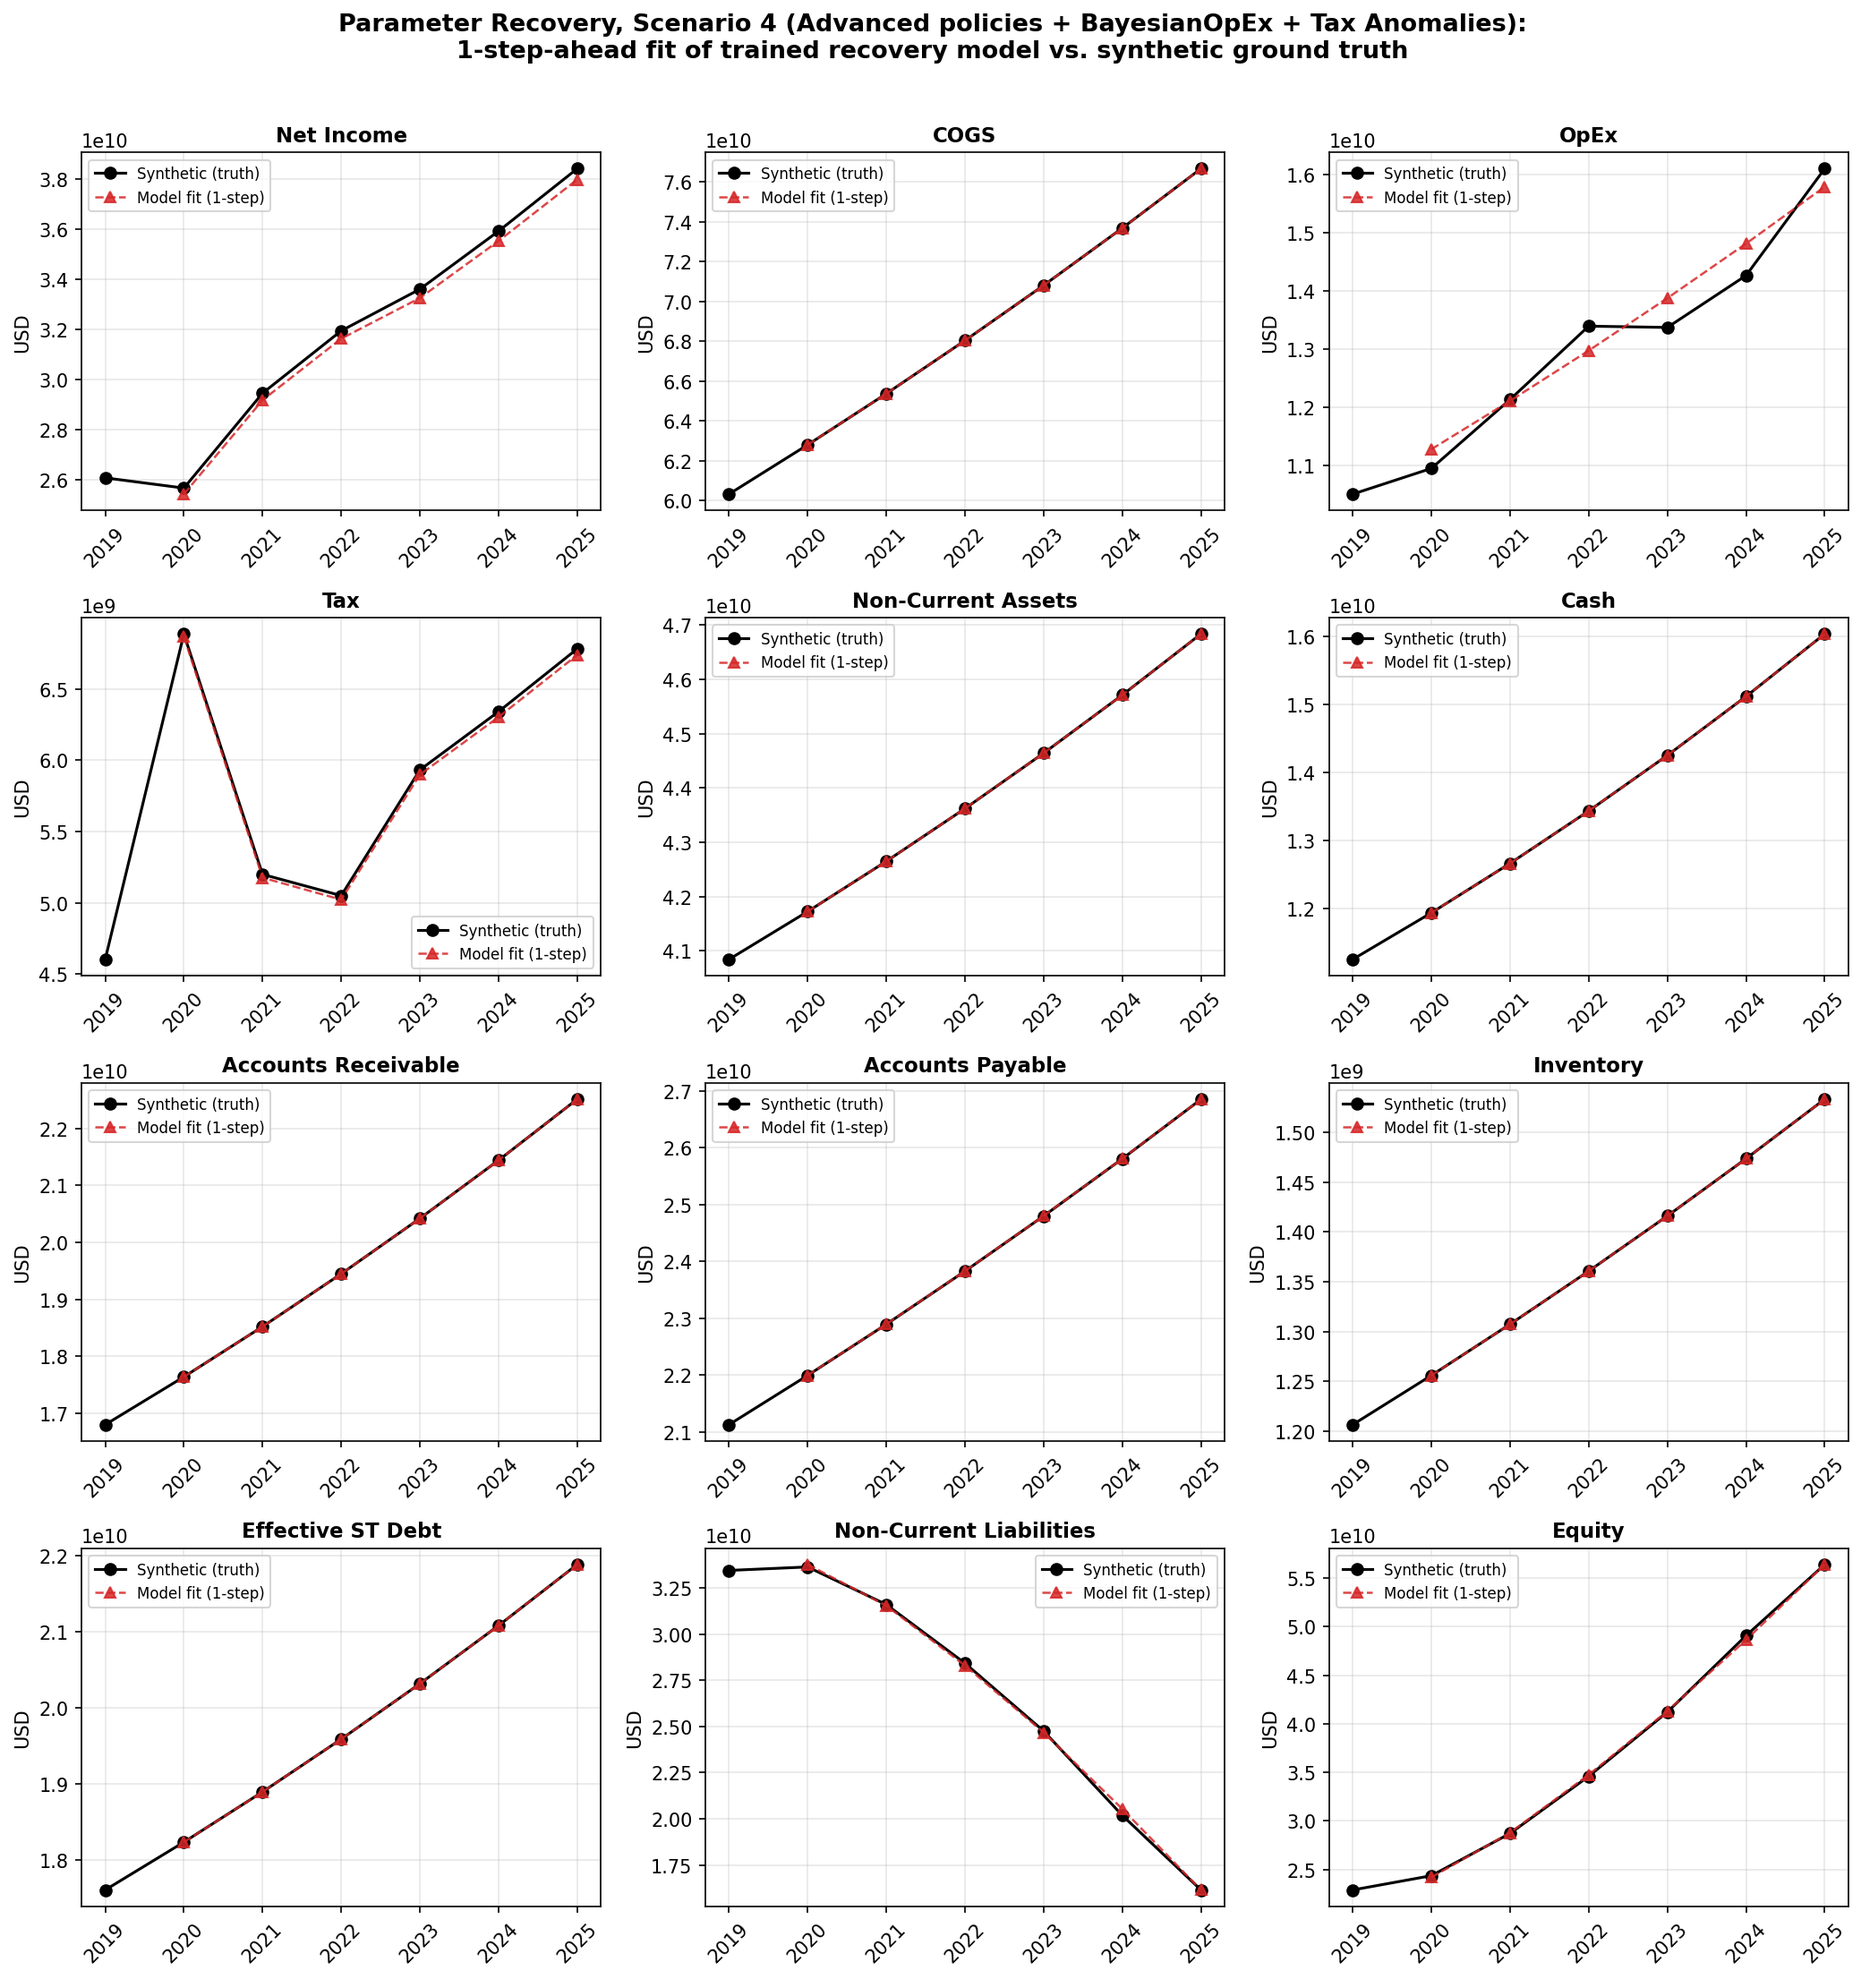
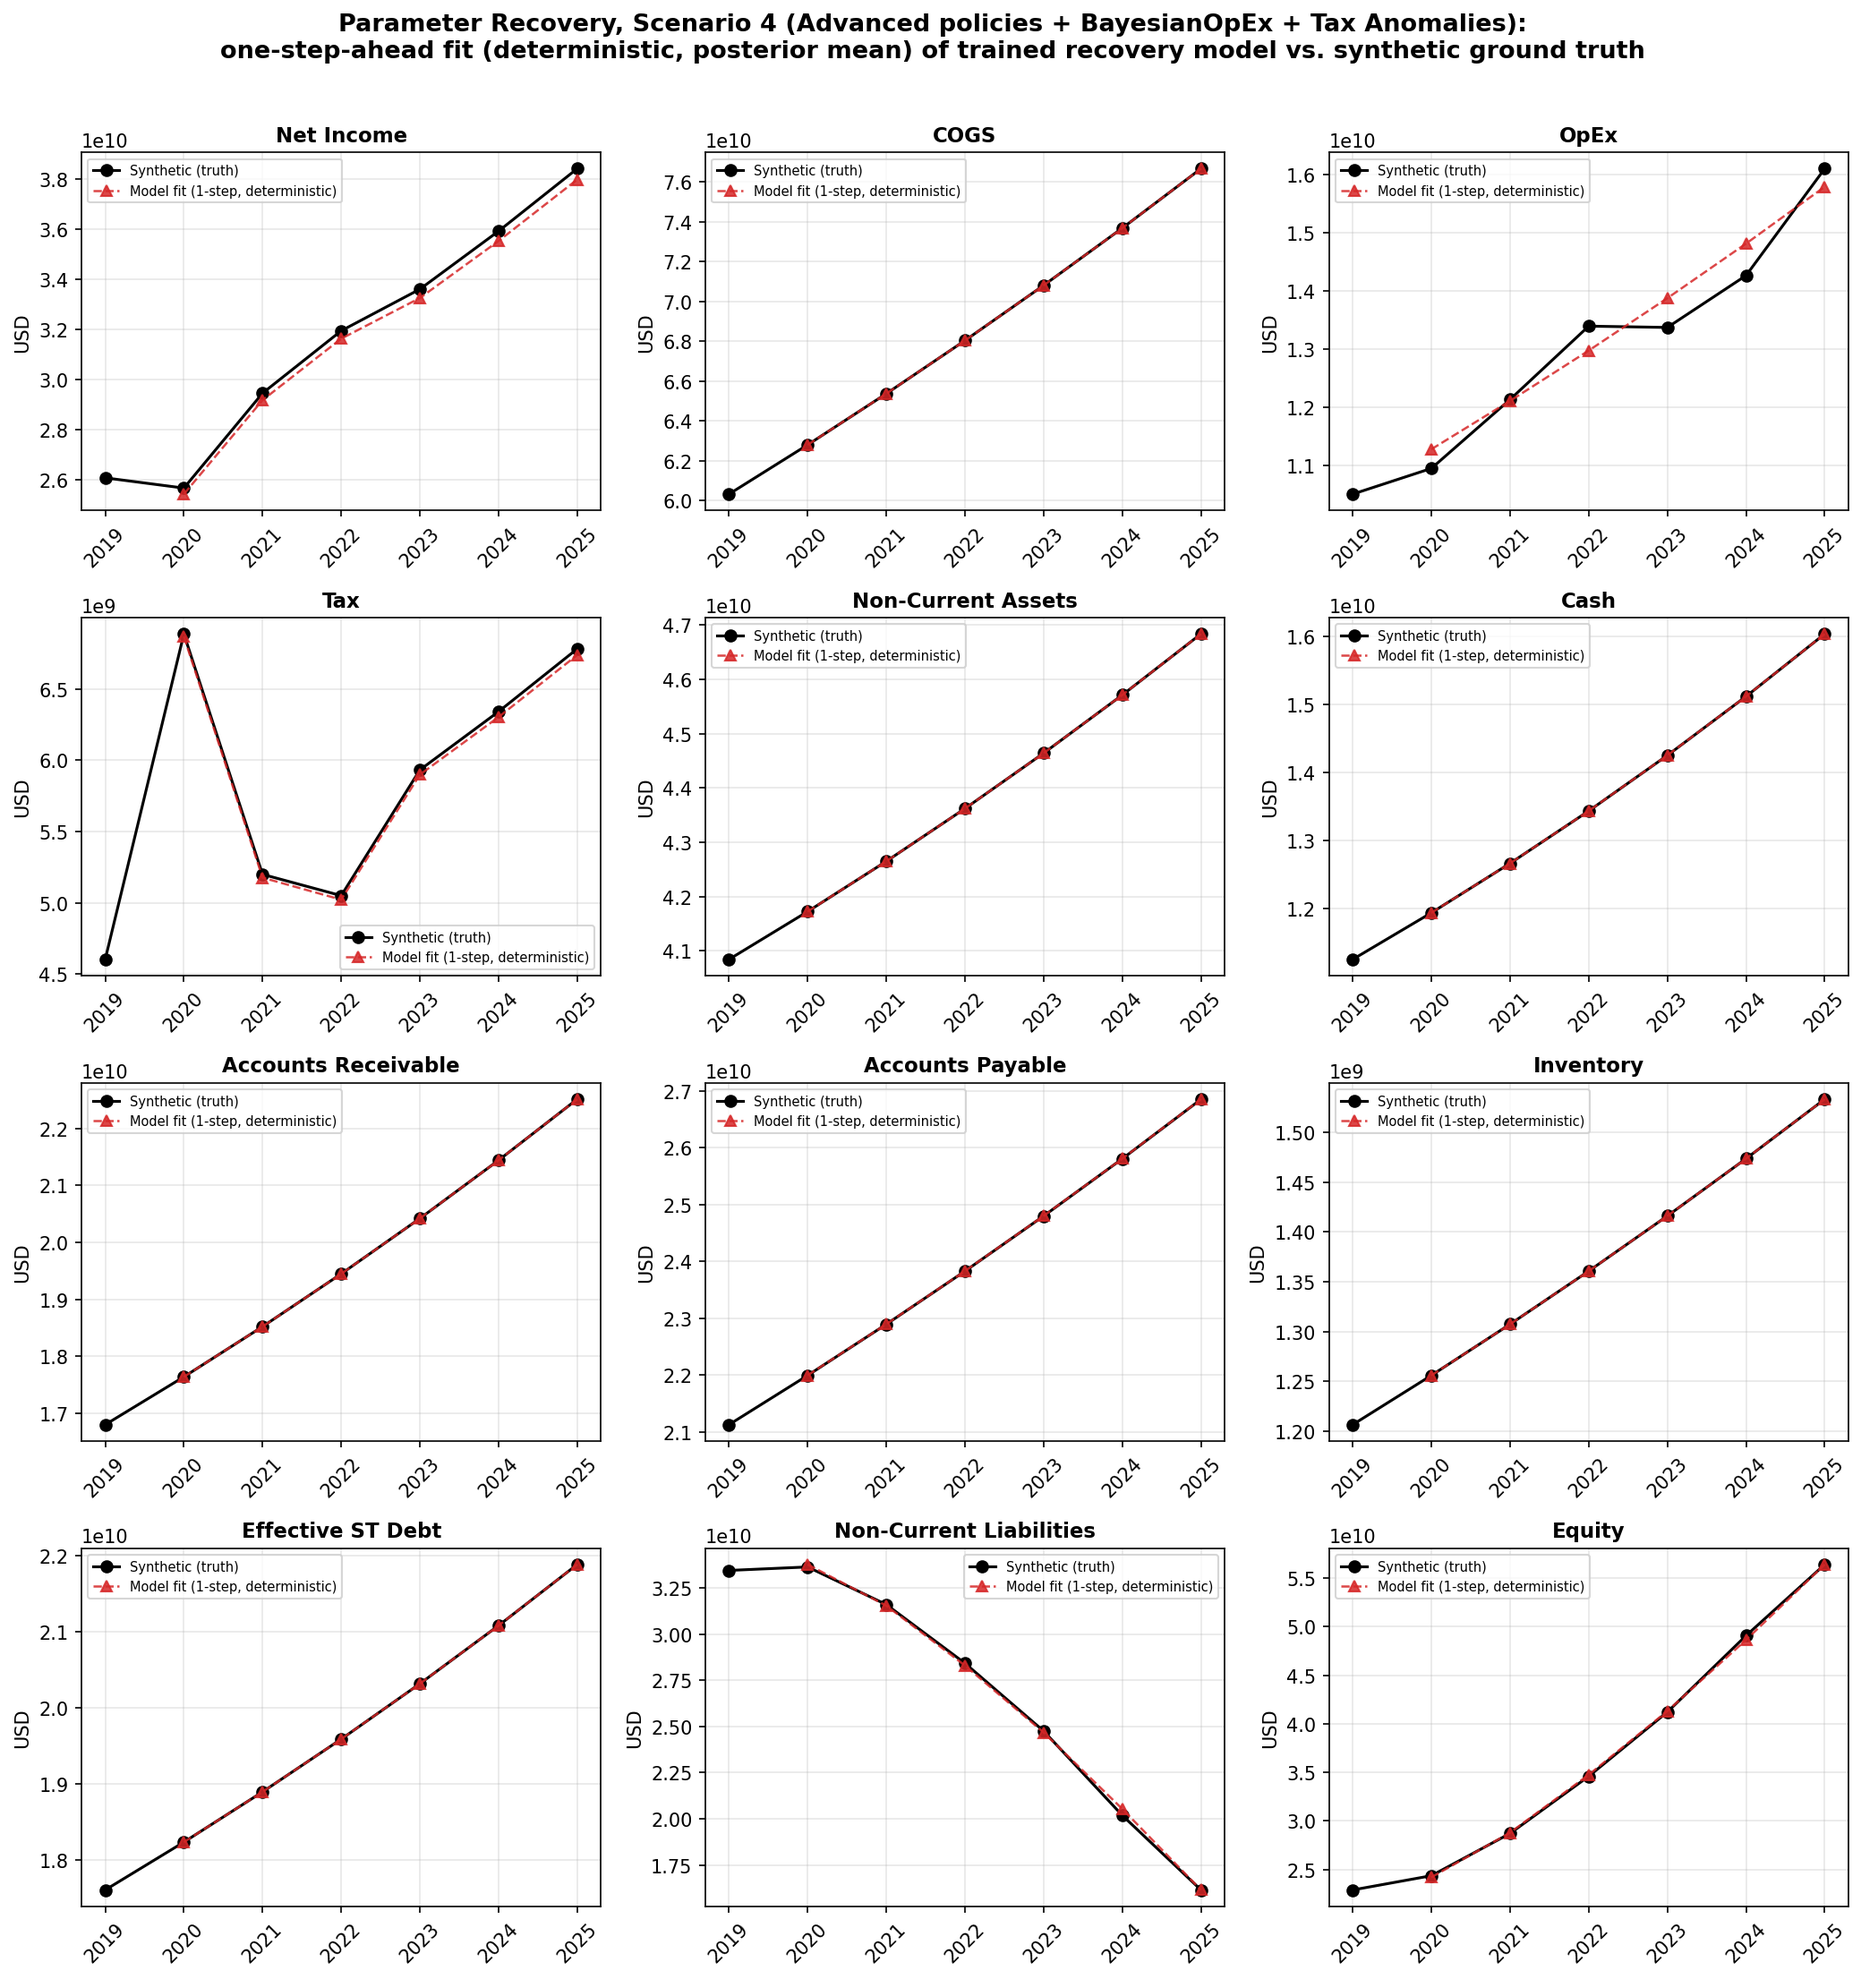
monte carlo also for 1step forecast, in the test case in tex

diff --git a/Report for JPMorgan Chase MLCOE internship - Q1 final report - extension.tex b/Report for JPMorgan Chase MLCOE internship - Q1 final report - extension.tex
@@ -4324,17 +4324,57 @@ evolution, including the cash budget circularity.
 \centering
 \includegraphics[width=\textwidth]{report_latex_media/media/parameter_recovery_s4_fit.png}
 \caption{Parameter recovery, Scenario~4 (advanced policies + Bayesian
-OpEx + tax anomalies): one-step-ahead fit of the trained recovery
-model against the synthetic ground truth it was trained on.  Black
-markers are the synthetic observations produced by the generator model;
-red markers are the trained model's \texttt{forecast\_step}
-predictions, initialized from each preceding state.  The 2020 spike and
-2022 dip in the Tax panel correspond to the known one-time anomalies
-$\delta_{2020}=\$2\text{B}$ and $\delta_{2022}=-\$0.5\text{B}$, which
-the \texttt{TaxWithAnomalies} module reproduces exactly.  The slight
-noise in the OpEx panel reflects the injected aleatoric noise
-$\varepsilon_t\sim\mathcal{N}(0,\sigma^2)$.}
+OpEx + tax anomalies): \emph{deterministic} one-step-ahead fit of the
+trained recovery model against the synthetic ground truth it was
+trained on.  Black markers are the synthetic observations produced by
+the generator model; red markers are the trained model's
+\texttt{forecast\_step} predictions with \texttt{use\_mean\_opex=True}
+(posterior mean, no sampling), initialized from each preceding state.
+The 2020 spike and 2022 dip in the Tax panel correspond to the known
+one-time anomalies $\delta_{2020}=\$2\text{B}$ and
+$\delta_{2022}=-\$0.5\text{B}$, which the \texttt{TaxWithAnomalies}
+module reproduces exactly.  The slight noise in the OpEx panel reflects
+the injected aleatoric noise $\varepsilon_t\sim\mathcal{N}(0,\sigma^2)$.}
 \label{fig:param_recovery_fit_s4}
+\end{figure}
+
+The deterministic fit in Figure~\ref{fig:param_recovery_fit_s4} uses
+the posterior \emph{mean} of the Bayesian OpEx variational parameters
+and suppresses aleatoric noise.  To also visualize the \emph{predictive
+uncertainty} implied by the trained posterior, we repeat the same
+one-step-ahead fit but instead draw $N=500$ Monte Carlo samples from
+the OpEx posterior and noise distributions at each transition, then
+plot the sample mean together with a 95\% credible band.  The only
+code difference from the deterministic variant is passing
+\texttt{use\_mean\_opex=False} to \texttt{forecast\_step\_compiled} on
+a state tiled to $[N, 14]$ after a single
+\texttt{opex\_module.prepare\_mc} call.  Figure~\ref{fig:param_recovery_fit_s4_mc}
+shows the result.  As expected, the band is widest on OpEx itself and
+propagates into Net Income, Tax, Non-Current Liabilities, and Equity
+(which depend on OpEx through the income statement and cash budget),
+while COGS, cash, working-capital items, and non-current assets---which
+are deterministic functions of sales, cost ratio, and working-capital
+ratios at the 1-step horizon---collapse to a near-zero band.  This is
+the expected topology of uncertainty in the model and further confirms
+the recovered posterior behaves correctly.
+
+\begin{figure}[H]
+\centering
+\includegraphics[width=\textwidth]{report_latex_media/media/parameter_recovery_s4_fit_mc.png}
+\caption{Parameter recovery, Scenario~4: \emph{Monte Carlo}
+one-step-ahead fit.  Same setup as Figure~\ref{fig:param_recovery_fit_s4}
+except the trained model is evaluated with
+\texttt{use\_mean\_opex=False} on a state tiled to $N=500$ samples,
+drawing from the Bayesian OpEx posterior
+$q(\beta_0),q(\beta_1)$ and the aleatoric noise
+$\mathcal{N}(0,\sigma^2)$.  The red line is the MC mean and the shaded
+red region is the 95\% credible band (2.5--97.5 percentiles across
+samples).  Panels whose value depends on OpEx at this 1-step horizon
+(OpEx, Net Income, Tax, Non-Current Liabilities, Equity) display the
+propagated uncertainty; panels that do not (COGS, NCA, Cash, AR, AP,
+Inventory, Effective ST Debt) have near-zero bands, as they are
+deterministic functions of the (exact) state and exogenous sales.}
+\label{fig:param_recovery_fit_s4_mc}
 \end{figure}
 
 \section{References}
